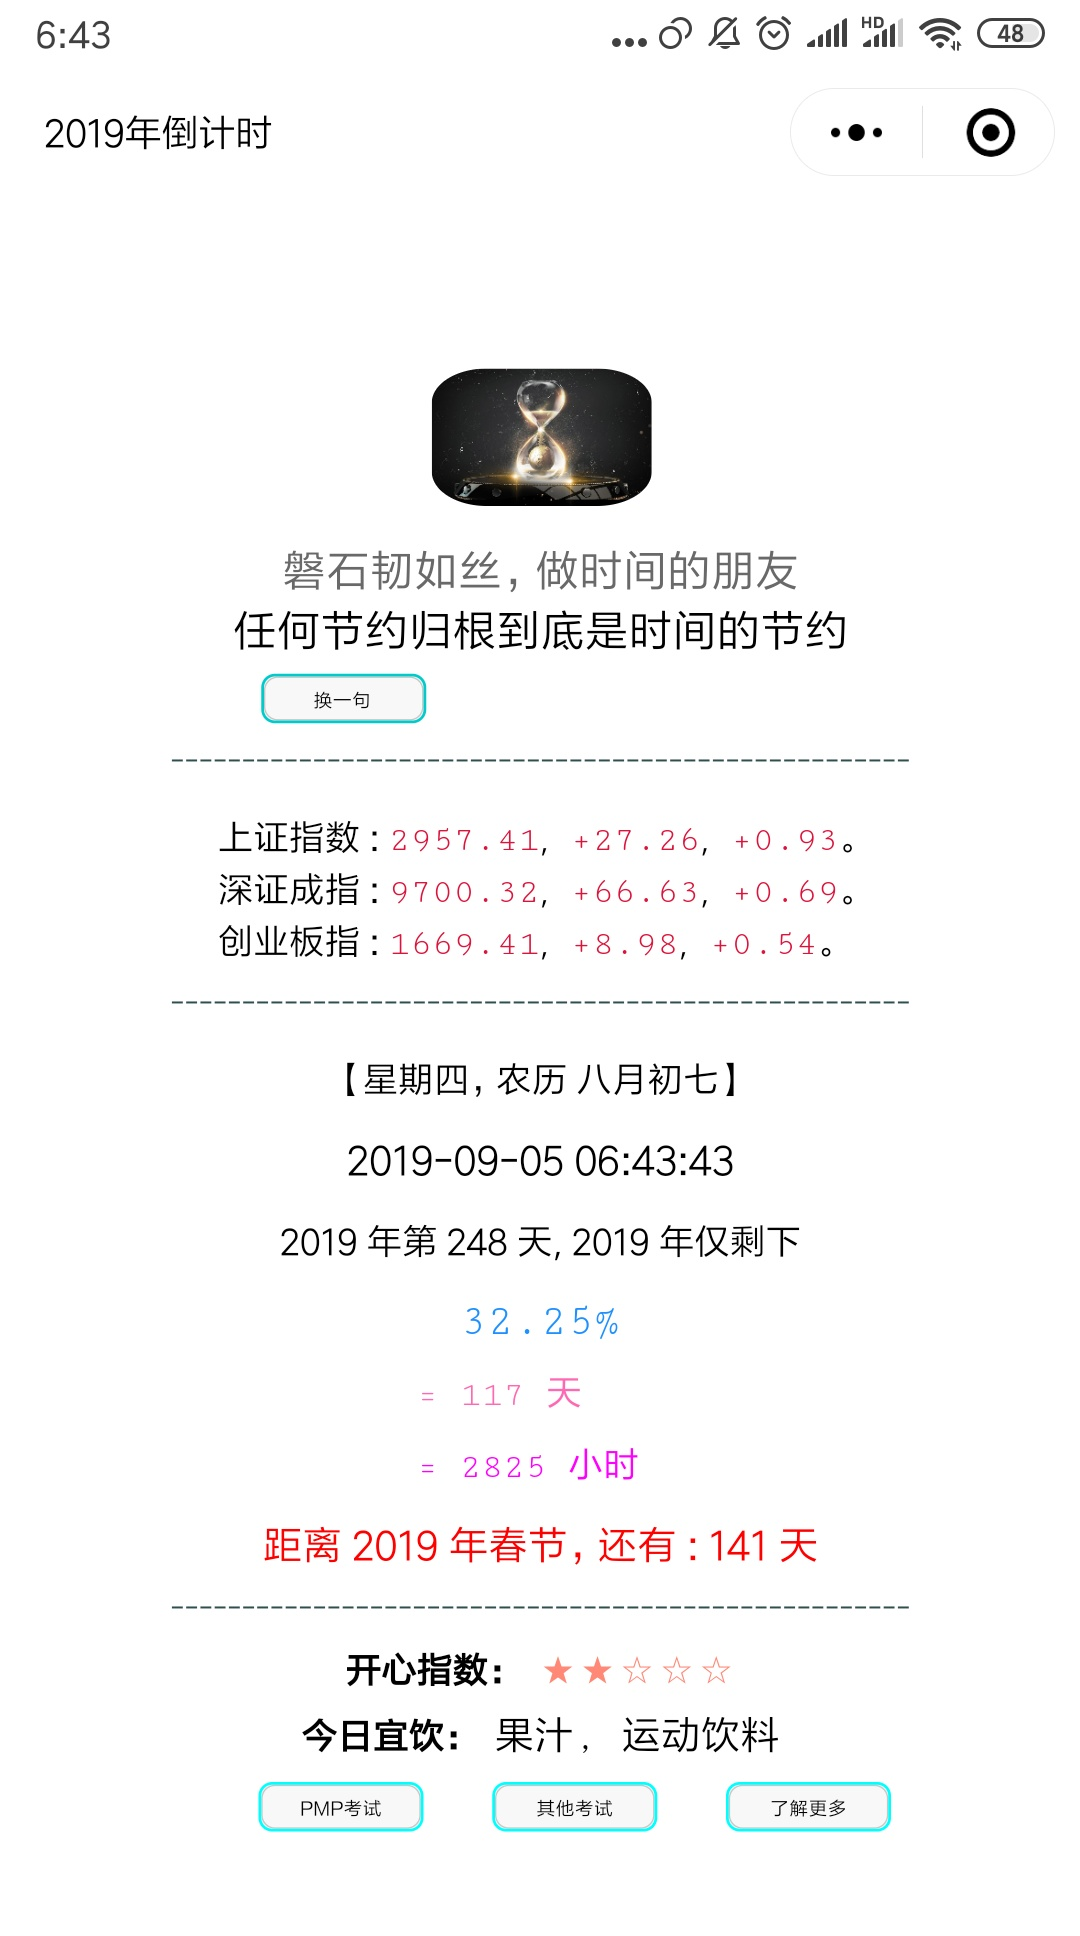
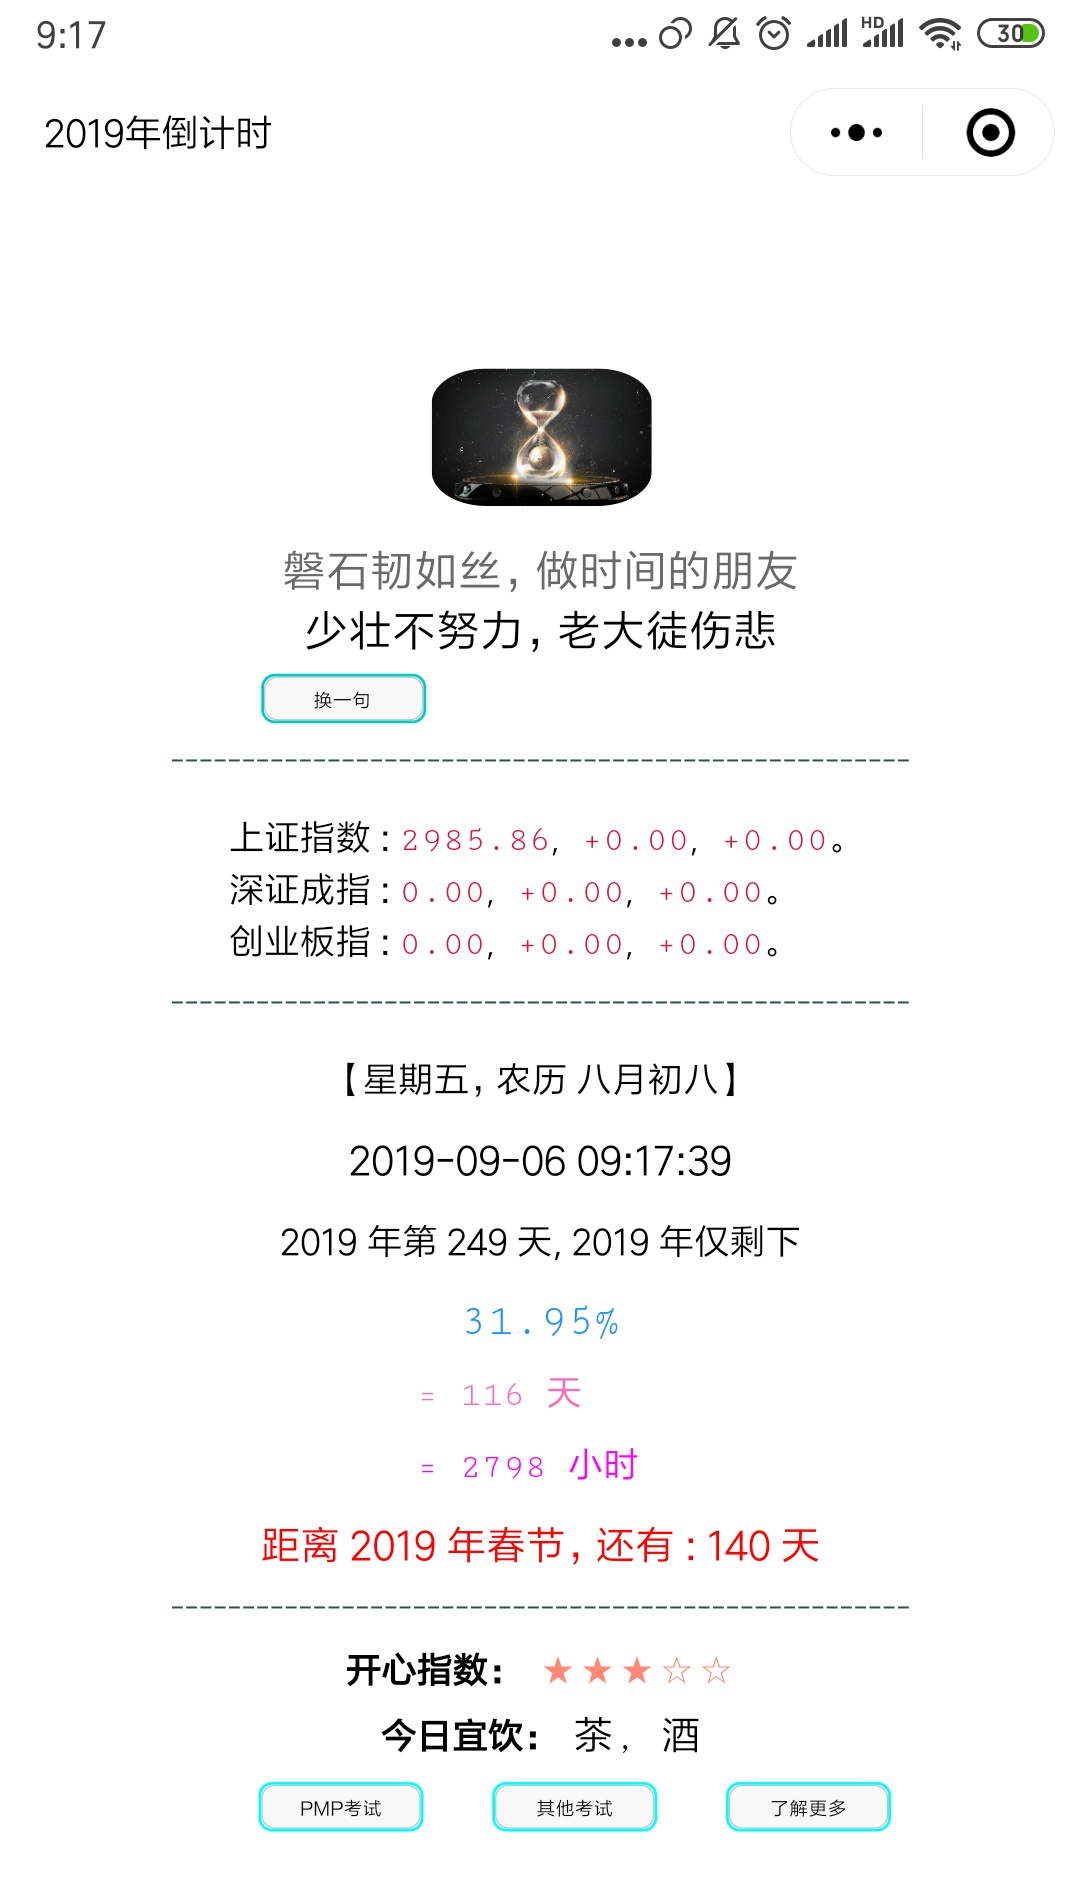
例行更新 20190906-1

diff --git a/source/_posts/001_2-FD_my_life_records-2019.md b/source/_posts/001_2-FD_my_life_records-2019.md
@@ -1,5 +1,5 @@
 ---
-title: 坚持的力量之数据人生-2019年9月5日
+title: 坚持的力量之数据人生-2019年9月6日
 tags:
   - 数据人生
   - 参考模板
@@ -20,14 +20,14 @@ keywords:
   - 宽978高553
 photos:
   - '/images/001_2/photos.png'
-description: 今天：2019 年 9 月 5 日，2019 年仅剩下 117 天。坚持记录和分析生活中的数据、信息和事件，尊重历史数据、信息和事件，人生将会更美好。
-date: 2019-09-05 00:02:05
+description: 今天：2019 年 9 月 6 日，2019 年仅剩下 116 天。坚持记录和分析生活中的数据、信息和事件，尊重历史数据、信息和事件，人生将会更美好。
+date: 2019-09-06 00:02:05
 ---
 <script type="text/javascript" src="/js/src/bai.js"></script>
 
-### 坚持的力量之数据人生-2019年9月4日
+### 坚持的力量之数据人生-2019年9月6日
 ------
-> 今天：2019 年 9 月 4 日，2019 年仅剩下 118 天。坚持记录和分析生活中的数据、信息和事件，尊重历史数据、信息和事件，人生将会更美好。
+> 今天：2019 年 9 月 6 日，2019 年仅剩下 116 天。坚持记录和分析生活中的数据、信息和事件，尊重历史数据、信息和事件，人生将会更美好。
 >
 > 序言：坚持记录和分析生活中的数据、信息和事件，尊重历史数据、信息和事件，人生将会更美好。
 
@@ -67,14 +67,14 @@ date: 2019-09-05 00:02:05
 
 | 序号 |       名称                                            |  类型  | 开始/结束日期 | 总天数 |          备注                           |
 | :--: | :---------------------------------------------------: | :----: | :-----------: | :----: | :-------------------------------------: |
-|  1   | <font color="#FF0000" size=2>读书荐书第 4/4 更</font> | 倒计时 | 2019/10/01    |  25    | 开始时间：2019/7/1                      |
-|  2   | <font color="#FF0000" size=2>重要节点</font>          | 倒计时 | 2020/03/01    |  181   | 开始时间：2018/6/15 剩余 10 个月        |
-|  3   | <font color="#0000FF" size=2>来上海</font>            | 计时   | 2011/06/25    |  2934  | 第 8 年进行中                           |
-|  4   | <font color="#0000FF" size=2>莫名其妙的计时</font>    | 计时   | 2018/11/12    |  293   | 莫名其妙的计时，希望永远不会停 ！！！   |
+|  1   | <font color="#FF0000" size=2>读书荐书第 4/4 更</font> | 倒计时 | 2019/10/01    |  24    | 开始时间：2019/7/1                      |
+|  2   | <font color="#FF0000" size=2>重要节点</font>          | 倒计时 | 2020/03/01    |  180   | 开始时间：2018/6/15 剩余 10 个月        |
+|  3   | <font color="#0000FF" size=2>来上海</font>            | 计时   | 2011/06/25    |  2935  | 第 8 年进行中                           |
+|  4   | <font color="#0000FF" size=2>莫名其妙的计时</font>    | 计时   | 2018/11/12    |  294   | 莫名其妙的计时，希望永远不会停 ！！！   |
 |  5   | <font color="#FF00FF" size=2>博客总计博文</font>      | 计数   | 2018/08/01    |  207   | [博客](/archives) 博文总计数目          |
 |  6   | <font color="#FF00FF" size=2>读书心得札记</font>      | 计数   | 2018/05/26    |  69    | [读书心得笔记并做笔记](/tags/札记人生/) |
 |  7   | <font color="#FF00FF" size=2>五篇好文推荐</font>      | 计数   | 2018/10/24    |  50    | [美文推荐](/tags/美文推荐/)             |
-|  8   | <font color="#FF00FF" size=2>公众号更新</font>        | 计数   | 2018/12/01    |  104   | [微信公众号（4 篇删除）](https://mp.weixin.qq.com/s/xxIkfGMFU7BaCeCJtdrtDg) |
+|  8   | <font color="#FF00FF" size=2>公众号更新</font>        | 计数   | 2018/12/01    |  106   | [微信公众号（4 篇删除）](https://mp.weixin.qq.com/s/xxIkfGMFU7BaCeCJtdrtDg) |
 
 #### 2. ❤ 今天记账了吗？记了，✔。 ❤
 ##### 2.1 记账信息详情
@@ -82,11 +82,11 @@ date: 2019-09-05 00:02:05
 
 | 日期                                   | 记账新增记录 | 记账总记录 | 记账总天数 | 记账时间      | 备注     |
 | :------:                               | :------:     | :------:   | :------:   | :------:      | :------: |
-|<font color="#000000"> 20190901 </font> | 6            | 10744      | 3114       | 8 年零 185 天 | 无       |
 |<font color="#000000"> 20190902 </font> | 9            | 10753      | 3115       | 8 年零 186 天 | 无       |
 |<font color="#000000"> 20190903 </font> | 3            | 10756      | 3116       | 8 年零 187 天 | 无       |
 |<font color="#000000"> 20190904 </font> | 5            | 10761      | 3117       | 8 年零 188 天 | 无       |
-|<font color="#FF0000"> 20190905 </font> | 4            | 10765      | 3116       | 8 年零 189 天 | 无       |
+|<font color="#000000"> 20190905 </font> | 4            | 10765      | 3118       | 8 年零 189 天 | 无       |
+|<font color="#FF0000"> 20190906 </font> | 27           | 10792      | 3119       | 8 年零 190 天 | 无       |
 
 
 #### 3. 历史数据汇总

diff --git a/source/_posts/001_1-FD_2018_year_all_checker-2019.md b/source/_posts/001_1-FD_2018_year_all_checker-2019.md
@@ -1,5 +1,5 @@
 ---
-title: 2019年每日日常综合打卡-2019年9月5日
+title: 2019年每日日常综合打卡-2019年9月6日
 tags:
   - 数据人生
   - 参考模板
@@ -21,14 +21,14 @@ keywords:
   - 宽978高553
 photos:
   - '/images/001_1/photos.png'
-description: 今天：2019 年 9 月 5 日，2019 年仅剩下 117 天。每天坚持打卡，9 月份针对每个任务打卡，慢慢来，一切都会更好的。
-date: 2019-09-05 00:01:01
+description: 今天：2019 年 9 月 6 日，2019 年仅剩下 116 天。每天坚持打卡，9 月份针对每个任务打卡，慢慢来，一切都会更好的。
+date: 2019-09-06 00:01:01
 ---
 <script type="text/javascript" src="/js/src/bai.js"></script>
 
-### 2019年每日日常综合打卡-2019年9月4日
+### 2019年每日日常综合打卡-2019年9月6日
 ---
-> 今天：2019 年 9 月 5 日，2018 年仅剩下 117 天。每日打卡，9 月份针对每个任务打卡，慢慢来，一切都会更好的。
+> 今天：2019 年 9 月 6 日，2018 年仅剩下 116 天。每日打卡，9 月份针对每个任务打卡，慢慢来，一切都会更好的。
 ---
 
 #### 2019 年年历
@@ -56,7 +56,7 @@ date: 2019-09-05 00:01:01
 |  3 |四 ⭕  |日 ⭕  |日 ⭕  |三 ⭕  |五 ⭕  |一 ⭕  |三 ⭕  |六 ⭕  |二 ⭕  |四     |日     |二     |
 |  4 |五 ⭕  |一 ⭕  |一 ⭕  |四 ⭕  |六 ⭕  |二 ⭕  |四 ⭕  |日 ⭕  |三 ⭕  |五     |一     |三     |
 |  5 |六 ⭕  |二 ⭕  |二 ⭕  |五 ⭕  |日 ⭕  |三 ⭕  |五 ⭕  |一 ⭕  |四 ⭕  |六     |二     |四     |
-|  6 |日 ⭕  |三 ⭕  |三 ⭕  |六 ⭕  |一 ⭕  |四 ⭕  |六 ⭕  |二 ⭕  |五     |日     |三     |五     |
+|  6 |日 ⭕  |三 ⭕  |三 ⭕  |六 ⭕  |一 ⭕  |四 ⭕  |六 ⭕  |二 ⭕  |五 ⭕  |日     |三     |五     |
 |  7 |一 ⭕  |四 ⭕  |四 ⭕  |日 ⭕  |二 ⭕  |五 ⭕  |日 ⭕  |三 ⭕  |六     |一     |四     |六     |
 |  8 |二 ⭕  |五 ⭕  |五 ⭕  |一 ⭕  |三 ⭕  |六 ⭕  |一 ⭕  |四 ⭕  |日     |二     |五     |日     |
 |  9 |三 ⭕  |六 ⭕  |六 ⭕  |二 ⭕  |四 ⭕  |日 ⭕  |二 ⭕  |五 ⭕  |一     |三     |六     |一     |
@@ -94,7 +94,7 @@ date: 2019-09-05 00:01:01
 |  3 <font color="#000000">二</font> | ⭕        | ⭕        | ⭕        | ⭕        | ⭕         | ⭕        |           |
 |  4 <font color="#000000">三</font> | ⭕        | ⭕        | ⭕        | ⭕        | ⭕        | ⭕        |           |
 |  5 <font color="#000000">四</font> | ⭕        | ⭕        | ⭕        | ⭕        | ⭕        | ⭕        |           |
-|  6 <font color="#000000">五</font> |           |           |           |           |           |           |           |
+|  6 <font color="#000000">五</font> | ⭕        | ⭕        | ⭕        | ⭕        | ⭕        | ⭕        |           |
 |  7 <font color="#FF0000">六</font> |           |           |           |           |           |           |           |
 |  8 <font color="#FF0000">日</font> |           |           |           |           |           |           |           |
 |  9 <font color="#000000">一</font> |           |           |           |           |           |           |           |
